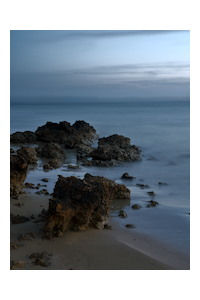
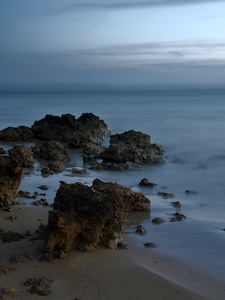
bilotinjak

diff --git a/index.html b/index.html
@@ -482,7 +482,7 @@
 					</article>
 
 					<article>
-						<a class="thumbnail" href="images/fulls/32.jpg" data-position="top center" download><img src="images/thumbs/32.jpg" alt="" /></a>
+						<a class="thumbnail" href="images/fulls/32.jpg" data-position="top center" download><img src="images/thumbs/32.jpg" alt="" style="transform: scale(1.1);"/></a>
 						<h2 class="image-title">
 							<span>Plaža Bilotinjak</span>
 							<a href="images/fulls/32.jpg" download title="Download">
